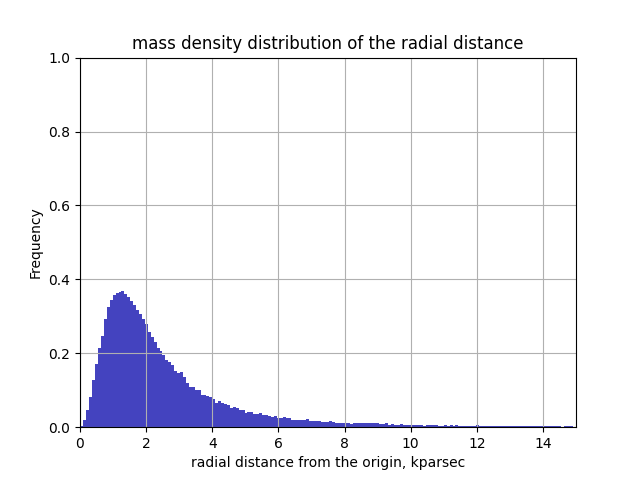
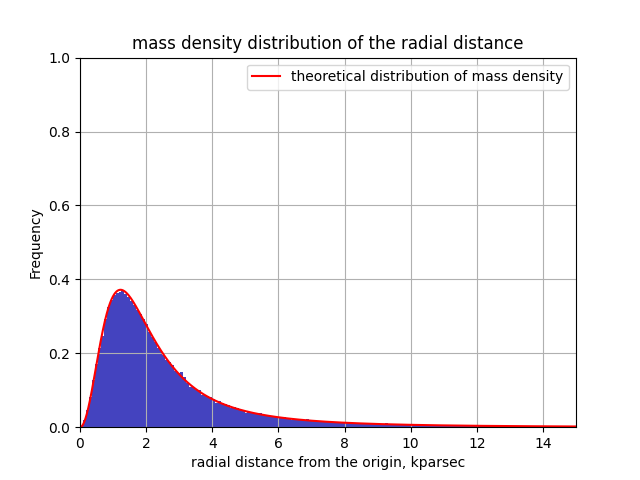
modified:   mass_distr.png 	modified:   plot.py

diff --git a/Assignment2/plot.py b/Assignment2/plot.py
@@ -1,10 +1,15 @@
 import matplotlib.pyplot as plt
 import numpy as np
+import math
 
 # An "interface" to matplotlib.axes.Axes.hist() method
 filename = "1a.dat"
 x = np.loadtxt(filename, usecols = (1), skiprows=1)
+x2 = np.linspace(0, 17, 100000)
+rho = 3.0/(4.0*math.pi)*1.5**(-3)*(1+(x2/1.5)**2)**(-5.0/2.0)*4*math.pi*x2**2 # since mass density, treat total mass as 1
 n, bins, patches = plt.hist(x, bins='auto', density=True, color='#0504aa', alpha=0.75)
+plt.plot(x2, rho, 'r', label = 'theoretical distribution of mass density')
+plt.legend()
 plt.xlabel('radial distance from the origin, kparsec')
 plt.ylabel('Frequency')
 plt.title('mass density distribution of the radial distance')
